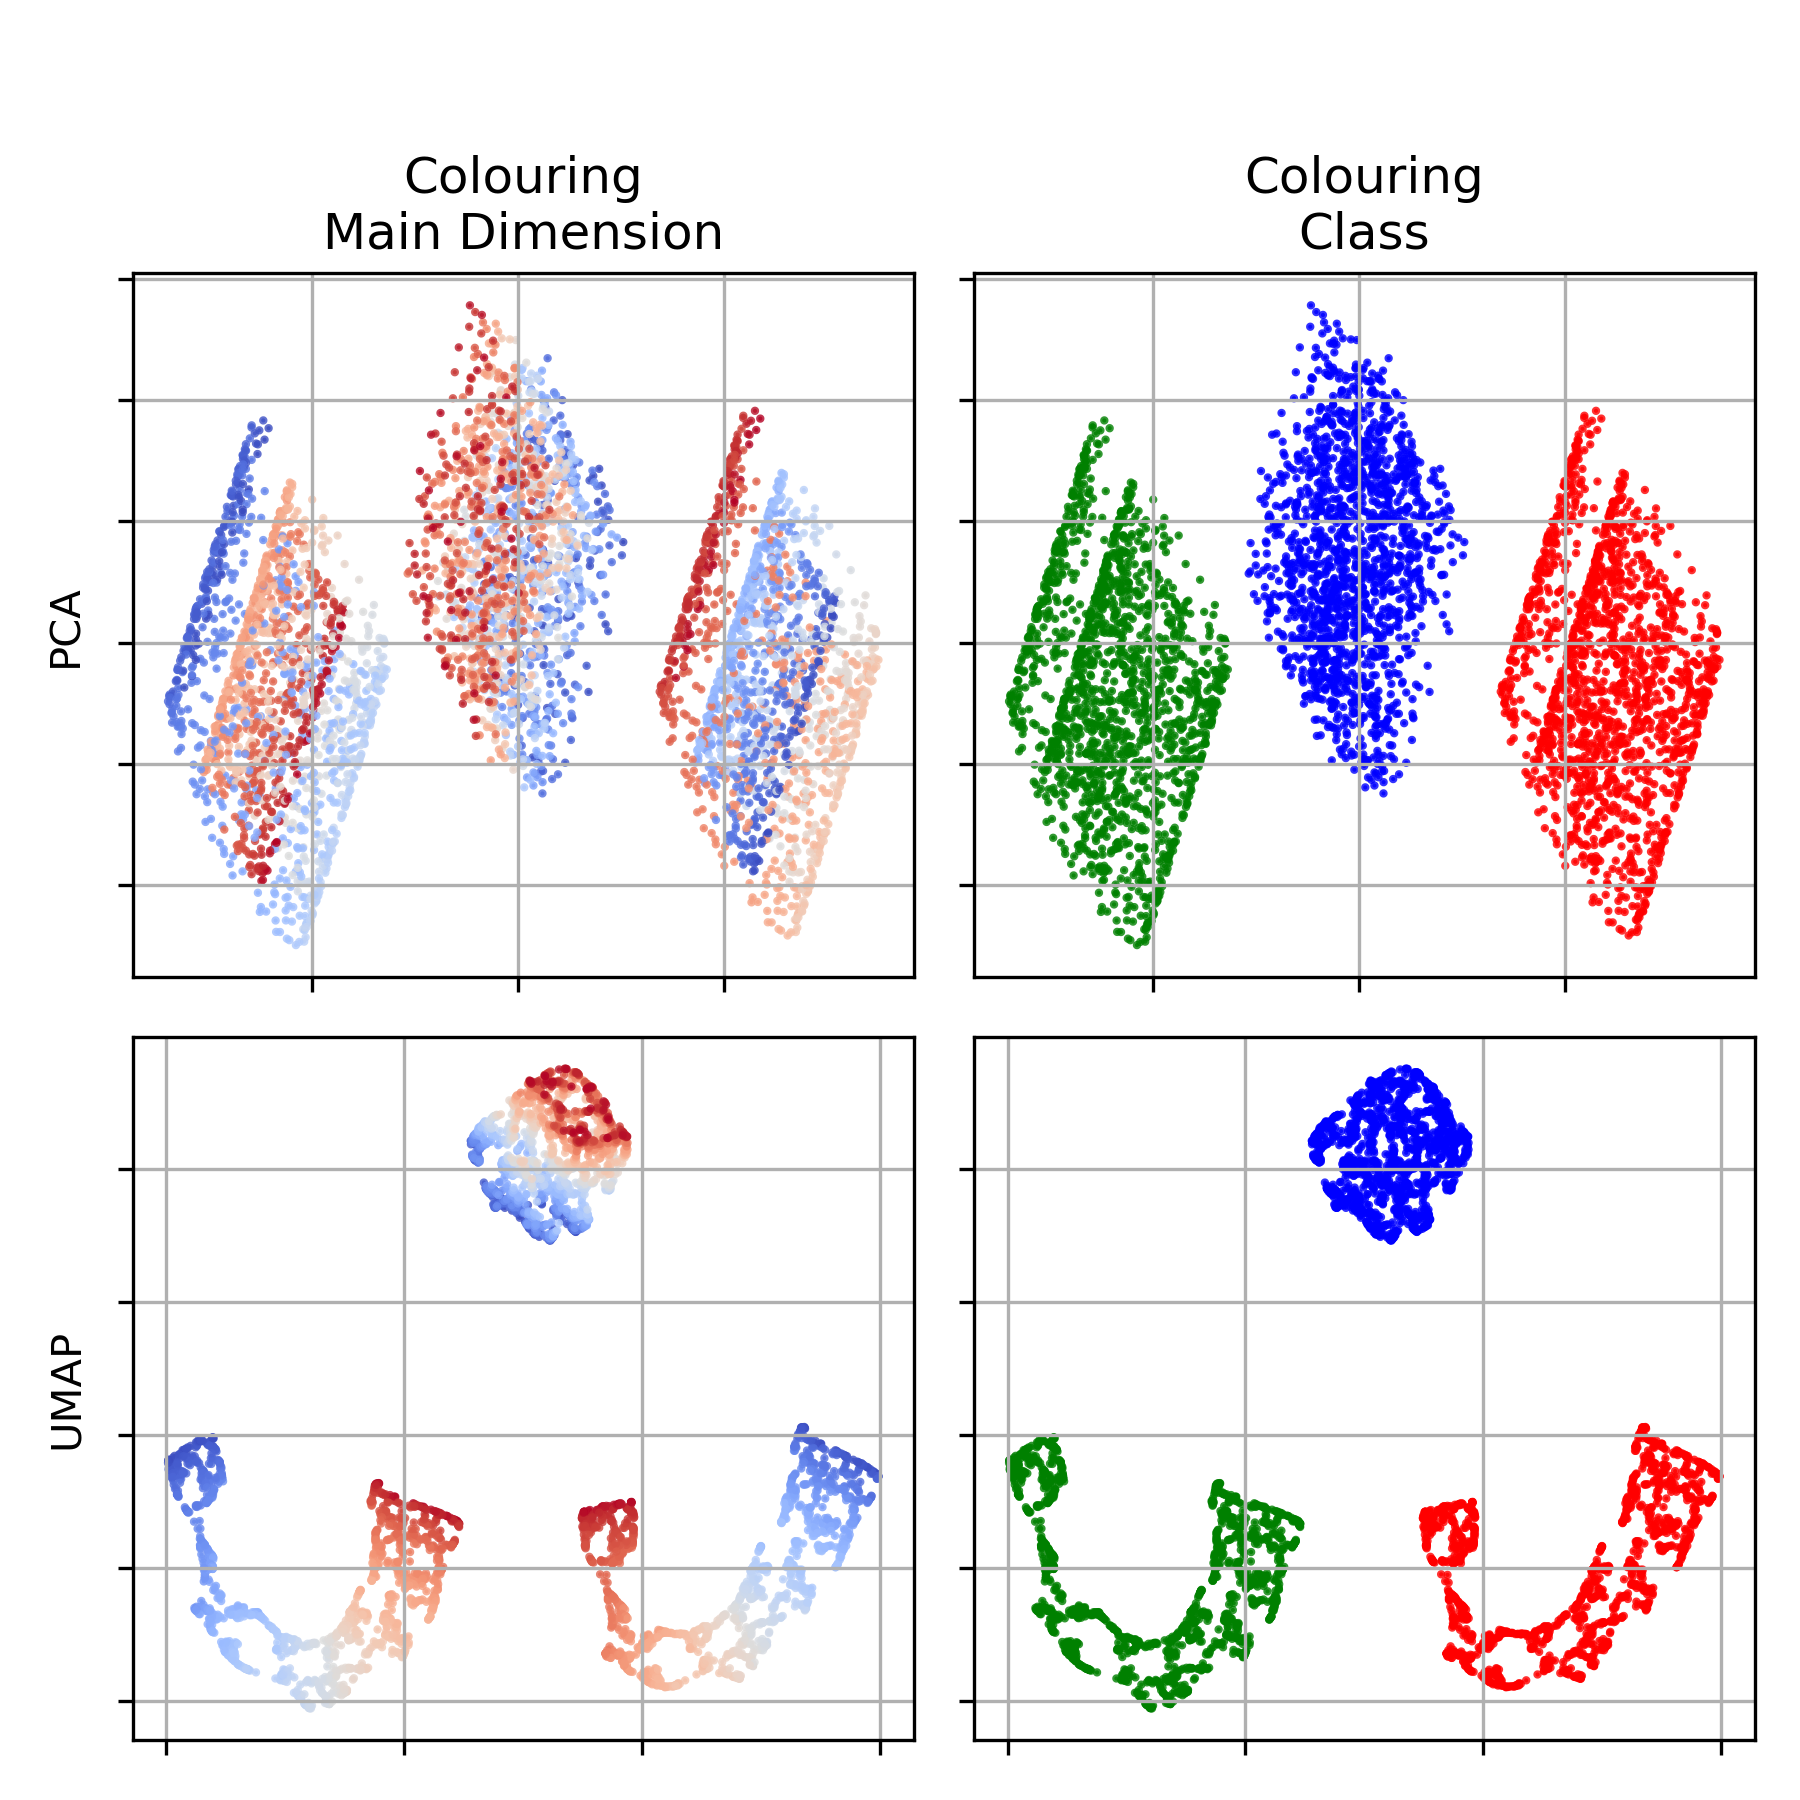
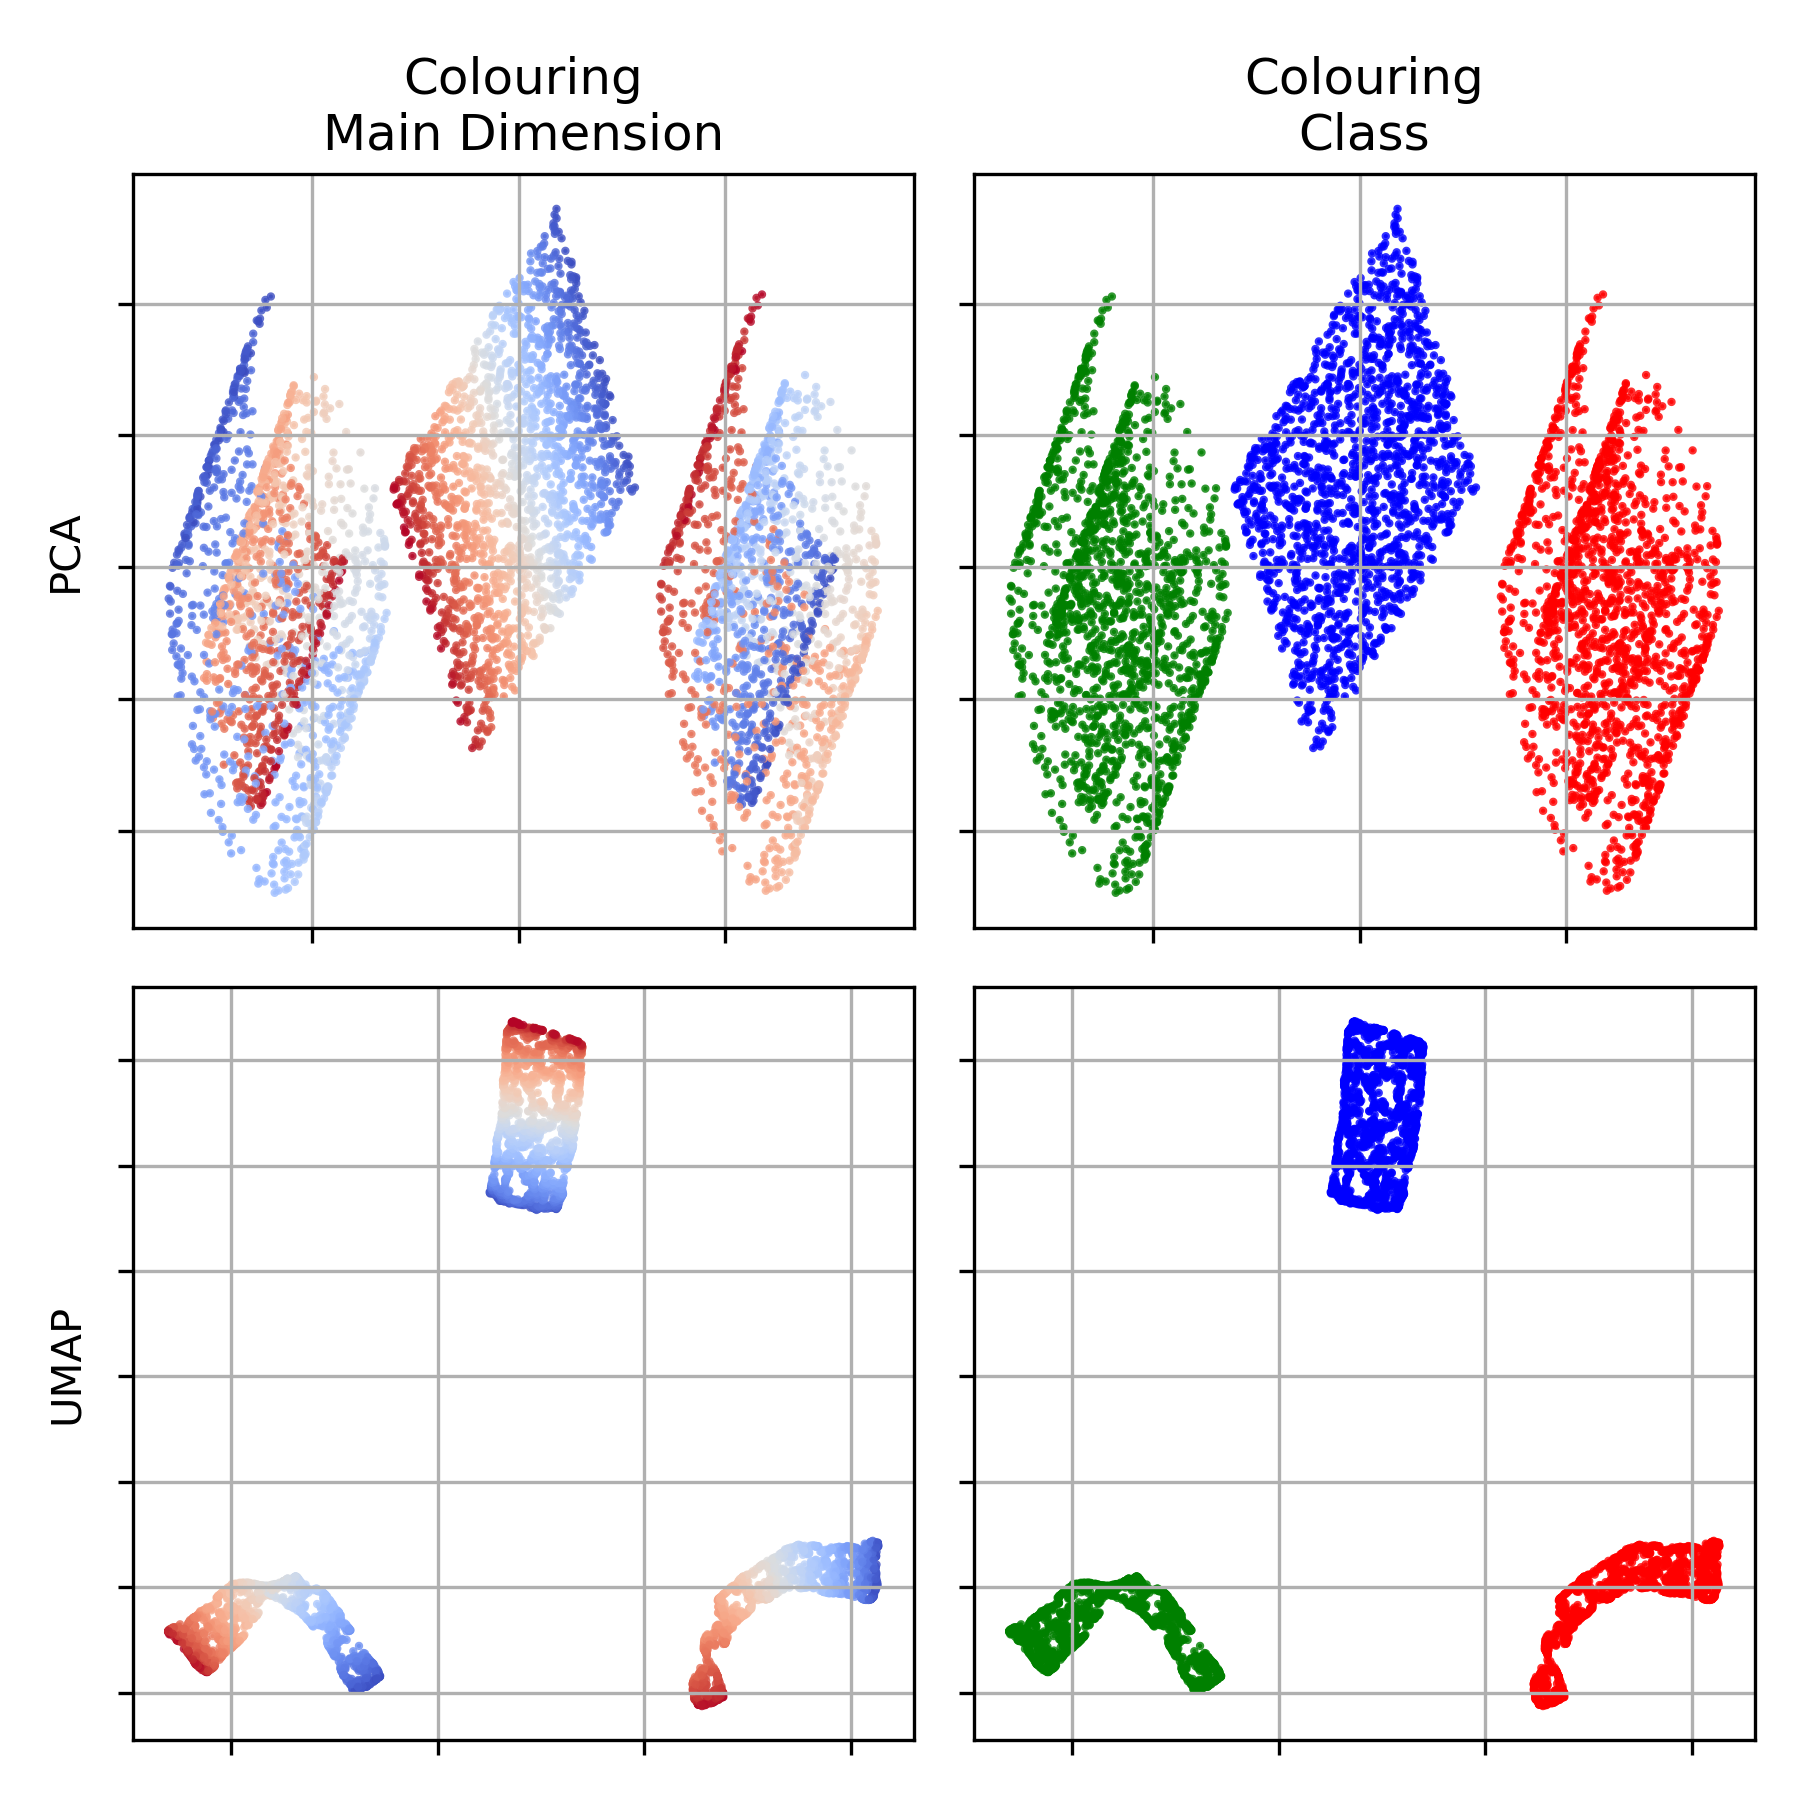
Updates from Overleaf

Changed region(s): [[0.0311, 0.0311, 0.9956, 0.9644], [0.0311, 0.28, 0.0622, 0.3733]]

diff --git a/chapters/chapter_4.tex b/chapters/chapter_4.tex
@@ -24,16 +24,14 @@ Borrowing the terminology from the unsupervised deep learning literature \cite{b
 
 \subsection{Dimensionality Reduction and Manifold Approximation}
 \label{dim_reduction}
-If we look at figure \ref{fig: repr_extr} we can see that with increasing size of $h$ it becomes challenging to inspect the representation generated by the encoder. However If we recall from section \ref{manifold_learning} the intrinsic dimensionality for this representation should be much smaller, in case of a latent state like attributed incentive salience this could be as small as one dimensional, two if we consider the nature of the rewarding object (see section \ref{motivation_hist} and figure \ref{fig: vect_mot} in particular). In this view a natural approach for inspecting the shape of the learned manifold would be to perfrom some form of dimensionality reduction and since we expect attributed incnetive salience to be have like a one dimensional vector, Principal Component Analysis (PCA)  seems to more reasonable approach. However the choice of which algorithm to chose might not be straightforward. Looking at figure \ref{fig: swiss_ambient}, we can see an example of three separate point clouds (denoted by different colours) in a three dimensional ambient space (the space in which the low dimensional manifold lives). Red and green clouds are examples of the synthetic Swiss Roll dataset \cite{scikit-learn}, while the blue cloud is a simple random projection of a square in the ambient space. Both distastes are intrinsically two dimensional with the main dimension defined by the gradient colouring in Figure \ref{fig: swiss_ambient} but the Swiss roll wraps in a non linear fashion when in the original ambient space. As we mentioned before, if we 
-
-
+If we look at figure \ref{fig: repr_extr} we can see that with increasing size of $h$ it becomes challenging to inspect the representation generated by the encoder. However If we recall from section \ref{manifold_learning} the intrinsic dimensionality for this representation should be much smaller, in case of a latent state like attributed incentive salience this could be as small as one dimensional, two if we consider the nature of the rewarding object (see section \ref{motivation_hist} and figure \ref{fig: vect_mot} in particular). In this view a natural approach for inspecting the shape of the learned manifold would be to perfrom some form of dimensionality reduction and since we expect attributed incentive salience to behave like a two dimensional vector, Principal Component Analysis (PCA) \cite{pearson1901liii} seems to  the most reasonable approach. However the choice of which algorithm to chose is not necessarily that straightforward. Looking at figure \ref{fig: swiss_ambient}, we can see the example of a dataset constituted by three separate (the separation aspect is important and will be further in section \ref{functional_properties}) point clouds (denoted by different colours) in a three dimensional ambient space (the space in which a low dimensional manifold might be embedded). Red and green clouds are examples of the synthetic Swiss Roll dataset \cite{scikit-learn}, while the blue cloud is a simple random projection of a square. Both datasets are basically equivalent (i.e. intrinsically two dimensional with the main dimension defined by the gradient colouring) but differs in their layout in ambient space: the square is linear while the Swiss roll warps in a non linear fashion.
 \begin{figure}[h]
   \centering
   \includegraphics[width=\textwidth]{images/chapter_4/ambient.png}
     \caption[\textbf{Swiss rolls in ambient space}]{Swiss rolls in ambient space}
     \label{fig: swiss_ambient}
 \end{figure}
-
+Figure \ref{fig: swiss_reduce} show the performance on the ataset of PCA along with an alternative non-linear dimensionality reduction approach: the Uniform Manifold Approximation and Projection (UMAP) \cite{2018arXivUMAP}. 
 \label{dim_reduction}
 \begin{figure}[h]
   \centering
@@ -41,11 +39,14 @@ If we look at figure \ref{fig: repr_extr} we can see that with increasing size o
     \caption[\textbf{PCA and UMAP reduction of Swiss rolls}]{Swiss roles reduced}
     \label{fig: swiss_reduce}
 \end{figure}
-\lorem
+The UMAP algorithm is a dimensionality reduction technique based on manifold learning. Given a high dimensional dataset, UMAP first infers its topological structure by means of a k-nearest neighbours graph and then, using stochastic gradient descent, attempts to structurally reproduce it in a lower dimensional space (two or three for visualization purposes) \cite{2018arXivUMAP}. Compared to other similar approaches (for example, the t-distributed Stochastic Neighbor Embedding \cite{van2008visualizing}), despite being a local algorithm, UMAP has the ability to better preserve also the global structure of the original data. Moreover, when given datasets that are sequential in natures (like those produce by the recurrent part of our architecture) UMAP is able to include this characteristics during the optimization process \footnote{See \cite{alignedumap} for implementation details.} generating lower dimensional representations that are coherent over time. What we observe here is that both techniques manage to keep the separation between point clouds, PCA, differently from UMAP, struggle to faithfully represent the the intrinsic structure of the data. This toy example is particularly relevant in our case as the representation generated by ANNs are by design highly non-linear even if the manifold structure they inferred might be. This will be made evident in the next section where we will proceed at visualizing the representation learning by our ANNs architecture.
 
 \section{Representation Analysis}
 \label{representation_analysis}
-We proceeded to analyze the representation inferred by the two ANN, with particular attention to the one generated by the RNN. First, we re-fitted both models on a random sample (i.e. 90\%) of the validation-set following the same procedure specified in paragraph \ref{perf_analysis}. Then, we created an encoder composed of all the transformations and relative parameters leading to the shared-representation layer (red highlight in Figure \ref{fig: rnn}). As illustrated in paragraph \ref{manifold_learning}, this is the portion of the model that we expected to approximate the manifold structure of attributed incentive salience. Subsequently, we passed the remaining portion of the validation-set (i.e. 10\%) as an input to the encoders, producing arrays of shape $(batch\times T \times h)$ with $h$ being the number of units in the shared layer and $T$ the number of sessions observed for $batch$ number of individuals. In order to visualize and inspect this multidimensional representation, we used the Uniform Manifold Approximation and Projection (UMAP) algorithm \cite{2018arXivUMAP}, a dimensionality reduction  technique based on manifold learning. Given a high dimensional dataset, UMAP first infers its topological structure and then, using stochastic gradient descent, attempts to structurally reproduce it in a lower dimensional space (two or three for visualization purposes) \cite{2018arXivUMAP}. Compared to other similar dimensionality reduction approaches (for example, the t-distributed Stochastic Neighbor Embedding), UMAP tends to better preserve both global and local structure of the original data, meaning that distances in the underlying dataset should be more faithfully reproduced. Moreover, when given a sequence of datasets with entries related to each other, UMAP is able to maintain these relationships during the optimization process \footnote{See \cite{alignedumap} for implementation details.}. In our case these sequential datasets were the $T$ representations generated by the RNN model after observing $T$ games sessions for a group of individuals. Being able to take into account these temporal relationships allowed us to gather information not just on the characteristics of the representation produced by the RNN model but also on their evolution over time. To clarify, the encoder provided by the ANN was tasked to generate a multidimensional representation where distance represented similarity between individuals with respect to the intensity of their future interactions with a game (see the manifold hypothesis of attributed incentive salience in sections \ref{manifold_state} and \ref{manifold_learning}). The UMAP algorithm made this multidimensional representation interpretable to the human eye approximating it's manifold structure on a 2 dimensional plane 
+We proceeded to analyze the representation inferred by the two ANN, with particular attention to the one generated by the RNN. First, we re-fitted both models on a random sample (i.e. 90\%) of the validation-set following the same procedure specified in paragraph \ref{perf_analysis}. Then, we created an encoder composed of all the transformations and relative parameters leading to the shared-representation layer (red highlight in Figure \ref{fig: rnn}). As illustrated in paragraph \ref{manifold_learning}, this is the portion of the model that we expected to approximate the manifold structure of attributed incentive salience. Subsequently, we passed the remaining portion of the validation-set (i.e. 10\%) as an input to the encoders, producing arrays of shape $(batch\times T \times h)$ with $h$ being the number of units in the shared layer and $T$ the number of sessions observed for $batch$ number of individuals.  In our case these sequential datasets were the $T$ representations generated by the RNN model after observing $T$ games sessions for a group of individuals. Being able to take into account these temporal relationships allowed us to gather information not just on the characteristics of the representation produced by the RNN model but also on their evolution over time.
+
+
+To clarify, the encoder provided by the ANN was tasked to generate a multidimensional representation where distance represented similarity between individuals with respect to the intensity of their future interactions with a game (see the manifold hypothesis of attributed incentive salience in sections \ref{manifold_state} and \ref{manifold_learning}). The UMAP algorithm made this multidimensional representation interpretable to the human eye approximating it's manifold structure on a 2 dimensional plane 
 and allowing us to evaluate the presence of those desirable properties that we mentioned at the beginning of section \ref{method}. Since we did not know the intrinsic dimensionality of the manifold we were trying to approximate, we conducted a Principal Component Analysis (PCA) of the representation generated by the RNN. Despite PCA and UMAP working under radically different assumptions and mechanisms, we thought this could provides us with a lower bound of how much variance we would be able to capture considering only two dimensions. The topological structure of the representation produced by the RNN was inferred by computing the cosine distance in a local neighborhood of 1000 points with a minimum distance of 0.8, while the dimensionality reduction was achieved by running the optimization part of the algorithm for 2000 iterations. The choice of a large neighborhood and minimum distance was made to better capture the global structure of the representation space \footnote{See \cite{umapwebs} for a visualization of the effects of these hyperparameters in UMAP.}.\\
 To understand the functions underlying the inferred representation, we conducted an exploratory investigation of the relationship between hidden units' activation in the recurrent layer and predictions produced by the model. To quantify the strength of the observed relationship we employed the Maximal Information Coefficient (MIC) \cite{reshef2011detecting}, a measure of mutual information that can quantify both linear and non-linear association between variables. The MIC can assume values between 0 to 1 with 1 corresponding to a perfect association. We adopted the implementation of UMAP provided McInnes \textit{et. al.} \cite{mcinnes2018umap-software} while the MIC was computed using the python library minepy \cite{albanese2013minerva}. Visualizations were produced using the python libraries matplotlib \cite{hunter2007matplotlib} and seaborn \cite{waskom2021seaborn}.
 
@@ -59,6 +60,7 @@ In order to support our idea that the representation learned by the different ar
 The characteristics mentioned above are concerned with a general validation of the properties of the latent representation for both ANNs architectures, however we also wanted to evaluate the assumption the the improved version of the RNN architecture was indeed producing qualitatively better representation than its predecessor.
 
 \subsection{Validating the Functional Properties of the Latent Representation}
+\label{functional_properties}
 From figure \ref{pca_emb}A we can observe consistent patterns of cross-correlation for the activity of the artificial neurons constituting the RNN representation. This is supported by the fact that, considering only two dimensions, PCA was able to explain from 30 to 60\% of the variance in the representation generated by the RNN, with maximum explanatory power around 6 and 8 principal components.
 \begin{figure}[h]
 \centering
